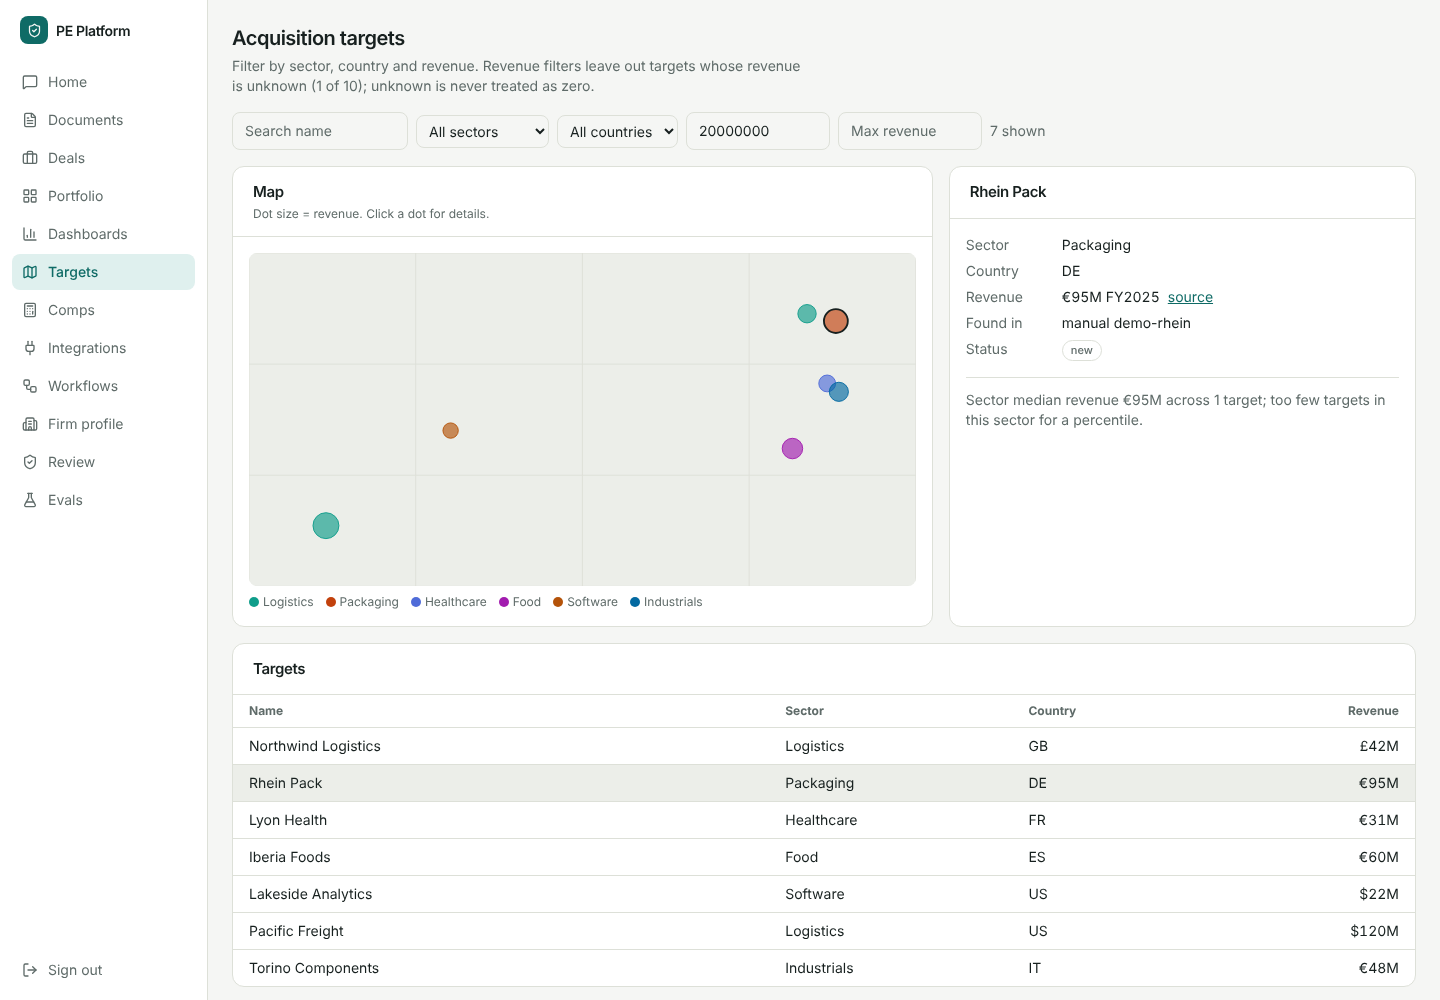
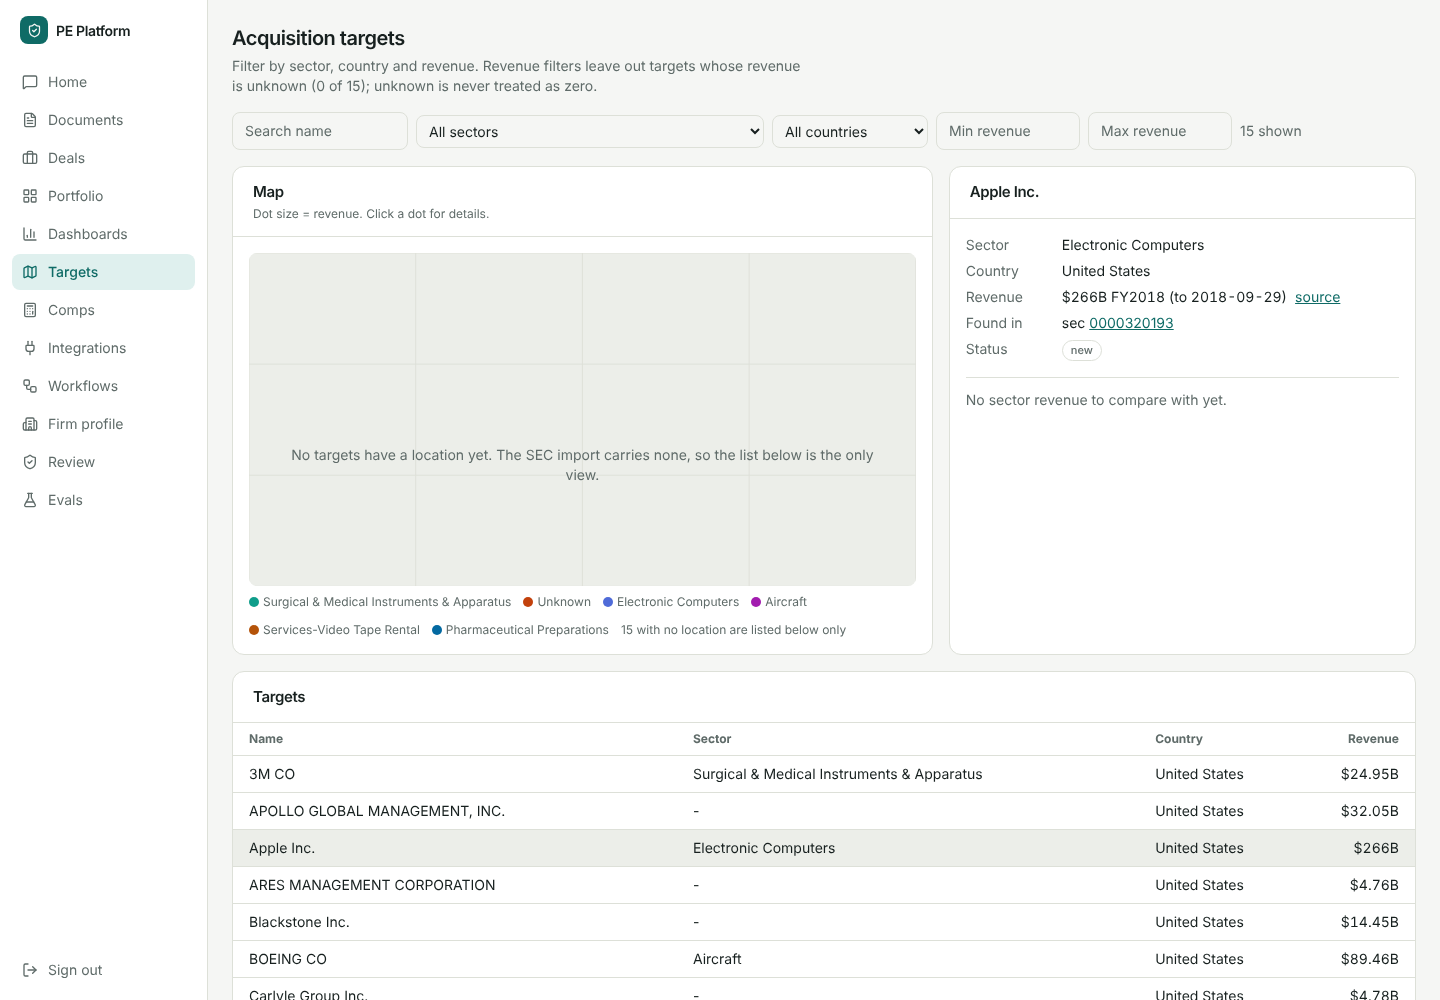
Targets: say when no target has a location for the map (#133)
The SEC import carries no coordinates, so the map was blank without a reason.

Claude-Session: https://claude.ai/code/session_01UJT41KsMGqU6qYoKxNBJjn

diff --git a/apps/web/src/Targets.tsx b/apps/web/src/Targets.tsx
@@ -19,7 +19,10 @@ function MapView({ items, sel, onPick }: { items: Target[]; sel: number | null; 
   const y = (lat: number) => ((a1 - lat) / (a1 - a0)) * H;
   const maxRev = Math.max(1, ...placed.map((t) => Number(t.revenue ?? 0)));
   return (
-    <div>
+    <div className="relative">
+      {placed.length === 0 && (
+        <p className="absolute inset-x-0 top-1/2 px-6 text-center text-sm text-mut">No targets have a location yet. The SEC import carries none, so the list below is the only view.</p>
+      )}
       <svg viewBox={`0 0 ${W} ${H}`} role="img" aria-label="Targets by location" className="w-full rounded-lg bg-sunk">
         {[0, 1, 2, 3, 4].map((i) => <line key={`v${i}`} x1={(W * i) / 4} x2={(W * i) / 4} y1={0} y2={H} stroke="var(--c-line)" />)}
         {[0, 1, 2, 3].map((i) => <line key={`h${i}`} y1={(H * i) / 3} y2={(H * i) / 3} x1={0} x2={W} stroke="var(--c-line)" />)}
